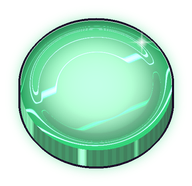
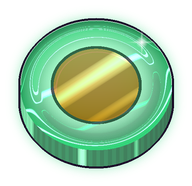
Branche argent-metaux : cœur d'or aussi dans l'émeraude

Changed region(s): [[0.25, 0.2419, 0.75, 0.672]]

diff --git a/VERSION PRINCIPALE/sw.js b/VERSION PRINCIPALE/sw.js
@@ -10,7 +10,7 @@
    Sacha : « vider l'historique de sw.js » — 272 Ko de notes que chaque joueur retéléchargeait à chaque version). ICI, UNE SEULE
    LIGNE : à chaque version on REMPLACE la ligne `const CACHE` ci-dessous (numéro +1, une note courte), sans garder l'ancienne en
    commentaire ; le détail d'une version va dans sa section du journal. */
-const CACHE = 'cashcar-v1290'; /* v1290 BRANCHE argent-metaux (2026-11-07, Léo : « comme l'euro, dans le verre du rouge et du multicolore, un cœur rond, mais doré ») rubis et légendaire ont un cœur d'or miroir pris dans le verre. */ /* v1289 BRANCHE argent-metaux (2026-11-07, Léo : « les pièces brillantes et légendaires plus translucides ») émeraude, rubis et légendaire en verre : le fond passe à travers le cœur, bords et reflets pleins, lumière intérieure. */ /* v1288 BRANCHE argent-metaux (2026-11-07, Léo : « plus lumineux, plus flou, pas un bonnet rasta ; le ressenti légendaire de Clash Royale ; une page où je vois tout défiler ») légendaire en pastels irisés fondus qui glissent, pièce plus claire qui tourne en RGB ; vitrine-monnaie.html montre les six paliers et un compteur qui les traverse. */ /* v1287 BRANCHE argent-metaux (2026-11-07, Léo : « le légendaire multicolore en RGB ») la pièce légendaire tourne dans toutes les teintes. */ /* v1286 BRANCHE argent-metaux (2026-11-07, Léo : « euro argenté au milieu et doré au bord, centime unicolore juste bronze brillant ») le centime est d'un seul bronze verni ; l'euro a un cœur argent miroir dans une couronne d'or, et ses chiffres sont argent sur un relief doré. */ /* v1285 BRANCHE argent-metaux (2026-11-07, Léo : « au début un centime brillant comme la Honte, puis un euro comme sur la route, puis or, émeraude, rouge, multicolore légendaire ») six paliers : CENTIME, EURO (bicolore), OR, ÉMERAUDE, RUBIS, LÉGENDAIRE (arc-en-ciel qui défile). */ /* v1284 BRANCHE argent-metaux (2026-11-07, Léo : « la matière de la pièce comme la voiture, polie brillante » ; « la boutique entourée de noir » ; « voir évoluer l'argent ») pièce VERNIE (boîtes à lumière, reflets blancs francs), compte de la boutique sans encre, `?metal=demo` fait défiler les cinq paliers. */ /* v1283 BRANCHE argent-metaux (2026-11-07, Léo : « fais juste une pièce 3D qui changera de matière par palier ») la monnaie devient une PIÈCE 3D (image au compteur, glyphe dans les textes), en cuivre, argent, or, émeraude ou diamant selon la fortune. */ /* v1282 BRANCHE argent-metaux (2026-11-07, Léo : « l'argent, plus tu en as, plus ça évolue ; refonte de la police de l'argent ») le symbole du sketch revient (branche seulement) et l'argent prend un MÉTAL qui suit la fortune : cuivre, argent, or, émeraude, diamant ; vrais € en rose néon. */ /* v1281 (2026-11-07, Sacha : « reviens en arrière sur les trucs de Léo avec le symbole euro, je veux les mêmes symboles euro que avant, les normaux en pixel ») la monnaie dorée 3D de Léo (v1276) est retirée une seconde fois : le € pixel d'avant revient partout. */ /* v1279 (2026-11-07, Léo : « enlève la tin snail ») LA DEUCHE (THE TIN SNAIL) est retirée de nouveau de la boutique ; le Taxi jaune reste. */ /* v1278 (2026-11-07, Sacha : « enlève TOUT et TRI ORDRE » · « les photos des voitures sont coupées » · « les photos des ailes sont buggées ») l'inventaire du coffre sans pastilles TOUT · TRI ; photos de la bande de l'atelier entières dans leur tuile. */ /* v1277 (2026-11-07, Léo : « sa règle compte : quand on appuie ACHETER, la vitre se casse et elle disparaît ») boutique : à l'achat la vitre se brise (vitre-brisee.js) et disparaît de la vitrine — la carte reçoit sa photo sans verre ; une caisse à toi n'a plus de vitre (règle de Sacha). */ /* v1276 (2026-11-07, Léo : « renvoie-la, dorée en 3D ») LA MONNAIE DU JEU revient (annulée sans mot) : le symbole du sketch, retaillé net, est un glyphe des polices (CUR() partout) et une IMAGE OR 3D au compteur, qui saute à chaque gain ; les vrais euros des offres restent en €. */ /* v1274 (2026-11-07, Léo : « laisse le socle noir de Sacha, je ne vois plus les vitres ») boutique : la vitrine des voitures reprend le socle NOIR VERNI de Sacha (avec le quadrillage, le verre et le fond de studio de Léo), et la vitre reste sur les caisses à toi ; le bloc de route : vitrine=route. */ /* v1273 (2026-11-07, Sacha : « lance une vraie chasse aux bugs ultra complète […] un soin particulier au son ») LA CHASSE : JOUER pendant la chauffe ne fige plus l'atelier (garage-rendu.js) ; ANNULER et SÉRIE en anglais ; la mission des couleurs n'est plus offerte sur le web ; les peintures gagnées restent dans MISSIONS au rechargement ; MAUVAIS SENS s'efface après QUITTER ; le pré-bâti retrouve sa chance à chaque partie ; le rayon de la boutique suit la vedette ; la 3D de l'ordi suit le zoom du cadre ; ROSSO 40 sans faux prix ; et LE SON : sons de course chauffés avant le départ (sfx.js v11), Pouce bleu muet en pause, RECOMMENCER tire un morceau neuf, air de la boutique rebranché, rouleaux du spin, boule de l'intro avec délai de secours, graphe endormi quand tout est coupé, bips du 3-2-1 sans paquet. */ /* v1272 (2026-11-07, Sacha : « remets l'ancien caractère €, annule le push de Léo ») la monnaie du sketch de Léo (v1254, v1256, v1269) est retirée : le € d'avant revient partout. */ /* v1271 (2026-11-07, Sacha : « organise-toi pour tout pousser avec soin ») LE RATTRAPAGE DE L'ARBRE PARTAGÉ : Final Spin réparé en mobile (final-spin.css), boutique — un système par rayon (peinture, ailes, traînées, figures : boutique-*.js/css), missions — l'écran de mission seulement pour une caisse, pièces ramassées 9 dB plus bas, ligne POUCE HAUT retirée dans le cadre téléphone de l'ordi. v1270 (2026-11-07, Léo : « la plaque noire, c'est un bloc de route du jeu » puis « oui, sur le main ») boutique : la vitrine des voitures a pour socle un BLOC DE LA ROUTE DU JEU (béton brut, flancs, lignes, liseré de rareté), photographié en 3D avec la caisse, sous le verre teinté de la rareté et son fond de studio ; vitrine=0 = le cube d'avant. */ /* v1269 (2026-11-07, Léo : « plus 3D jeu vidéo, là on dirait un euro ») le symbole de la monnaie prend un corps extrudé vers le bas-droite, séparé de sa face par un filet. */ /* v1267 (2026-11-07, Léo : « missions un peu plus petites, flottantes, un toucher les avance, un second les choisit ») LE VISEUR : profondeur des cartes. */ /* v1266 (2026-11-07, Sacha : « dans le garage il y a des tas de billets qui flottent ») les deux piles de billets posées sur des fûts disparus de l'atelier sont retirées (argent-atelier.js).  v1265 (2026-11-07, Léo : « un push a annulé le travail de la voiture dans le cube, il y a une plaque noire ») boutique : la vitrine miniature (socle noir verni) est éteinte par défaut, retour aux cubes de verre à sol quadrillé ; la vitrine s'allume avec vitrine=1. */ /* v1264 (2026-11-05, Sacha : « enlève la pluie dans le biome canyon des géants » · « l'orage aussi ») LE CANYON SANS PLUIE : les météos PLUIE et ORAGE du canyon sortent du tirage (p:0, niveaux.js) : il reste le matin, le soir et la nuit ; `?carte=canyon&meteo=pluie` (ou `orage`) les joue encore ; la mission « toutes ses météos » ne compte plus les météos hors du tirage (defis-moteur.js). */ /* v1262 (2026-11-07, Sacha : « lance une vraie chasse aux bugs ultra complète […] un soin particulier au son ») LA CHASSE : JOUER pendant la chauffe ne fige plus l'atelier (garage-rendu.js) ; ANNULER et SÉRIE en anglais ; la mission des couleurs n'est plus offerte sur le web ; les peintures gagnées restent dans MISSIONS au rechargement ; MAUVAIS SENS s'efface après QUITTER ; le pré-bâti retrouve sa chance à chaque partie ; le rayon de la boutique suit la vedette ; la 3D de l'ordi suit le zoom du cadre ; ROSSO 40 sans faux prix ; et LE SON : sons de course chauffés avant le départ (sfx.js v11), Pouce bleu muet en pause, RECOMMENCER tire un morceau neuf, air de la boutique rebranché, rouleaux du spin, boule de l'intro avec délai de secours, graphe endormi quand tout est coupé, bips du 3-2-1 sans paquet. */ /* v1261 (2026-11-07, Léo : « je veux que ça remplace le système de missions tout listé direct ») LES MISSIONS NOUVELLE FORME : 3 missions tirées au hasard autour de la caisse (LE VISEUR), cadeaux garantis, reprise de la progression ; ?pass=0 pour l'ancien. */ /* v1260 (2026-11-07, Sacha : « horrible, retourne en arrière ») menu ciel : retour aux tuiles GARAGE / ACHAT / REGLAGES d'avant (verre anthracite) ; les tuiles en bonbon clair de v1256 sont retirées. */
+const CACHE = 'cashcar-v1291'; /* v1291 BRANCHE argent-metaux (2026-11-07, Léo : « sur le vert aussi, rond doré ») l'émeraude a aussi son cœur d'or. */ /* v1290 BRANCHE argent-metaux (2026-11-07, Léo : « comme l'euro, dans le verre du rouge et du multicolore, un cœur rond, mais doré ») rubis et légendaire ont un cœur d'or miroir pris dans le verre. */ /* v1289 BRANCHE argent-metaux (2026-11-07, Léo : « les pièces brillantes et légendaires plus translucides ») émeraude, rubis et légendaire en verre : le fond passe à travers le cœur, bords et reflets pleins, lumière intérieure. */ /* v1288 BRANCHE argent-metaux (2026-11-07, Léo : « plus lumineux, plus flou, pas un bonnet rasta ; le ressenti légendaire de Clash Royale ; une page où je vois tout défiler ») légendaire en pastels irisés fondus qui glissent, pièce plus claire qui tourne en RGB ; vitrine-monnaie.html montre les six paliers et un compteur qui les traverse. */ /* v1287 BRANCHE argent-metaux (2026-11-07, Léo : « le légendaire multicolore en RGB ») la pièce légendaire tourne dans toutes les teintes. */ /* v1286 BRANCHE argent-metaux (2026-11-07, Léo : « euro argenté au milieu et doré au bord, centime unicolore juste bronze brillant ») le centime est d'un seul bronze verni ; l'euro a un cœur argent miroir dans une couronne d'or, et ses chiffres sont argent sur un relief doré. */ /* v1285 BRANCHE argent-metaux (2026-11-07, Léo : « au début un centime brillant comme la Honte, puis un euro comme sur la route, puis or, émeraude, rouge, multicolore légendaire ») six paliers : CENTIME, EURO (bicolore), OR, ÉMERAUDE, RUBIS, LÉGENDAIRE (arc-en-ciel qui défile). */ /* v1284 BRANCHE argent-metaux (2026-11-07, Léo : « la matière de la pièce comme la voiture, polie brillante » ; « la boutique entourée de noir » ; « voir évoluer l'argent ») pièce VERNIE (boîtes à lumière, reflets blancs francs), compte de la boutique sans encre, `?metal=demo` fait défiler les cinq paliers. */ /* v1283 BRANCHE argent-metaux (2026-11-07, Léo : « fais juste une pièce 3D qui changera de matière par palier ») la monnaie devient une PIÈCE 3D (image au compteur, glyphe dans les textes), en cuivre, argent, or, émeraude ou diamant selon la fortune. */ /* v1282 BRANCHE argent-metaux (2026-11-07, Léo : « l'argent, plus tu en as, plus ça évolue ; refonte de la police de l'argent ») le symbole du sketch revient (branche seulement) et l'argent prend un MÉTAL qui suit la fortune : cuivre, argent, or, émeraude, diamant ; vrais € en rose néon. */ /* v1281 (2026-11-07, Sacha : « reviens en arrière sur les trucs de Léo avec le symbole euro, je veux les mêmes symboles euro que avant, les normaux en pixel ») la monnaie dorée 3D de Léo (v1276) est retirée une seconde fois : le € pixel d'avant revient partout. */ /* v1279 (2026-11-07, Léo : « enlève la tin snail ») LA DEUCHE (THE TIN SNAIL) est retirée de nouveau de la boutique ; le Taxi jaune reste. */ /* v1278 (2026-11-07, Sacha : « enlève TOUT et TRI ORDRE » · « les photos des voitures sont coupées » · « les photos des ailes sont buggées ») l'inventaire du coffre sans pastilles TOUT · TRI ; photos de la bande de l'atelier entières dans leur tuile. */ /* v1277 (2026-11-07, Léo : « sa règle compte : quand on appuie ACHETER, la vitre se casse et elle disparaît ») boutique : à l'achat la vitre se brise (vitre-brisee.js) et disparaît de la vitrine — la carte reçoit sa photo sans verre ; une caisse à toi n'a plus de vitre (règle de Sacha). */ /* v1276 (2026-11-07, Léo : « renvoie-la, dorée en 3D ») LA MONNAIE DU JEU revient (annulée sans mot) : le symbole du sketch, retaillé net, est un glyphe des polices (CUR() partout) et une IMAGE OR 3D au compteur, qui saute à chaque gain ; les vrais euros des offres restent en €. */ /* v1274 (2026-11-07, Léo : « laisse le socle noir de Sacha, je ne vois plus les vitres ») boutique : la vitrine des voitures reprend le socle NOIR VERNI de Sacha (avec le quadrillage, le verre et le fond de studio de Léo), et la vitre reste sur les caisses à toi ; le bloc de route : vitrine=route. */ /* v1273 (2026-11-07, Sacha : « lance une vraie chasse aux bugs ultra complète […] un soin particulier au son ») LA CHASSE : JOUER pendant la chauffe ne fige plus l'atelier (garage-rendu.js) ; ANNULER et SÉRIE en anglais ; la mission des couleurs n'est plus offerte sur le web ; les peintures gagnées restent dans MISSIONS au rechargement ; MAUVAIS SENS s'efface après QUITTER ; le pré-bâti retrouve sa chance à chaque partie ; le rayon de la boutique suit la vedette ; la 3D de l'ordi suit le zoom du cadre ; ROSSO 40 sans faux prix ; et LE SON : sons de course chauffés avant le départ (sfx.js v11), Pouce bleu muet en pause, RECOMMENCER tire un morceau neuf, air de la boutique rebranché, rouleaux du spin, boule de l'intro avec délai de secours, graphe endormi quand tout est coupé, bips du 3-2-1 sans paquet. */ /* v1272 (2026-11-07, Sacha : « remets l'ancien caractère €, annule le push de Léo ») la monnaie du sketch de Léo (v1254, v1256, v1269) est retirée : le € d'avant revient partout. */ /* v1271 (2026-11-07, Sacha : « organise-toi pour tout pousser avec soin ») LE RATTRAPAGE DE L'ARBRE PARTAGÉ : Final Spin réparé en mobile (final-spin.css), boutique — un système par rayon (peinture, ailes, traînées, figures : boutique-*.js/css), missions — l'écran de mission seulement pour une caisse, pièces ramassées 9 dB plus bas, ligne POUCE HAUT retirée dans le cadre téléphone de l'ordi. v1270 (2026-11-07, Léo : « la plaque noire, c'est un bloc de route du jeu » puis « oui, sur le main ») boutique : la vitrine des voitures a pour socle un BLOC DE LA ROUTE DU JEU (béton brut, flancs, lignes, liseré de rareté), photographié en 3D avec la caisse, sous le verre teinté de la rareté et son fond de studio ; vitrine=0 = le cube d'avant. */ /* v1269 (2026-11-07, Léo : « plus 3D jeu vidéo, là on dirait un euro ») le symbole de la monnaie prend un corps extrudé vers le bas-droite, séparé de sa face par un filet. */ /* v1267 (2026-11-07, Léo : « missions un peu plus petites, flottantes, un toucher les avance, un second les choisit ») LE VISEUR : profondeur des cartes. */ /* v1266 (2026-11-07, Sacha : « dans le garage il y a des tas de billets qui flottent ») les deux piles de billets posées sur des fûts disparus de l'atelier sont retirées (argent-atelier.js).  v1265 (2026-11-07, Léo : « un push a annulé le travail de la voiture dans le cube, il y a une plaque noire ») boutique : la vitrine miniature (socle noir verni) est éteinte par défaut, retour aux cubes de verre à sol quadrillé ; la vitrine s'allume avec vitrine=1. */ /* v1264 (2026-11-05, Sacha : « enlève la pluie dans le biome canyon des géants » · « l'orage aussi ») LE CANYON SANS PLUIE : les météos PLUIE et ORAGE du canyon sortent du tirage (p:0, niveaux.js) : il reste le matin, le soir et la nuit ; `?carte=canyon&meteo=pluie` (ou `orage`) les joue encore ; la mission « toutes ses météos » ne compte plus les météos hors du tirage (defis-moteur.js). */ /* v1262 (2026-11-07, Sacha : « lance une vraie chasse aux bugs ultra complète […] un soin particulier au son ») LA CHASSE : JOUER pendant la chauffe ne fige plus l'atelier (garage-rendu.js) ; ANNULER et SÉRIE en anglais ; la mission des couleurs n'est plus offerte sur le web ; les peintures gagnées restent dans MISSIONS au rechargement ; MAUVAIS SENS s'efface après QUITTER ; le pré-bâti retrouve sa chance à chaque partie ; le rayon de la boutique suit la vedette ; la 3D de l'ordi suit le zoom du cadre ; ROSSO 40 sans faux prix ; et LE SON : sons de course chauffés avant le départ (sfx.js v11), Pouce bleu muet en pause, RECOMMENCER tire un morceau neuf, air de la boutique rebranché, rouleaux du spin, boule de l'intro avec délai de secours, graphe endormi quand tout est coupé, bips du 3-2-1 sans paquet. */ /* v1261 (2026-11-07, Léo : « je veux que ça remplace le système de missions tout listé direct ») LES MISSIONS NOUVELLE FORME : 3 missions tirées au hasard autour de la caisse (LE VISEUR), cadeaux garantis, reprise de la progression ; ?pass=0 pour l'ancien. */ /* v1260 (2026-11-07, Sacha : « horrible, retourne en arrière ») menu ciel : retour aux tuiles GARAGE / ACHAT / REGLAGES d'avant (verre anthracite) ; les tuiles en bonbon clair de v1256 sont retirées. */
 const CORE = ['./', './index.html', './manifest.webmanifest', './icon.svg'];
 
 self.addEventListener('install', e => {
